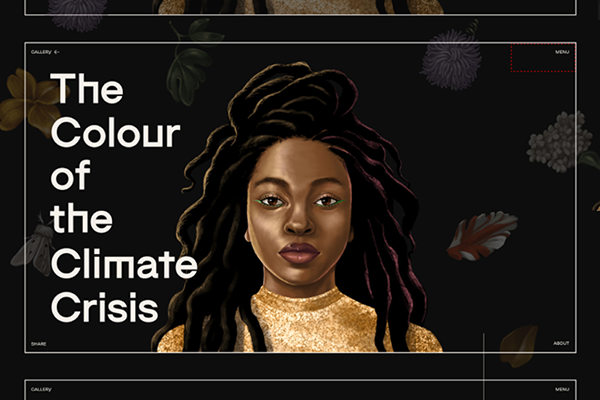
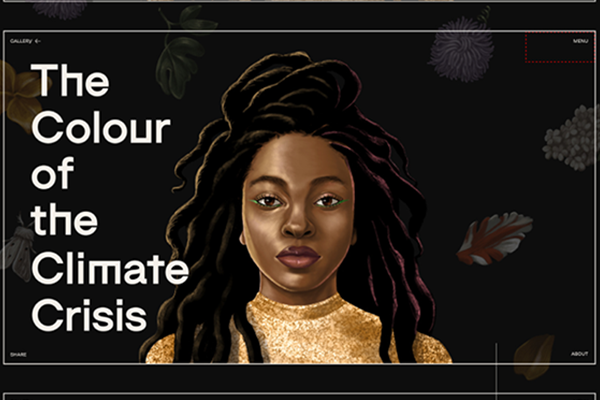
add hivstory

diff --git a/work-hivstory.html b/work-hivstory.html
@@ -80,11 +80,11 @@
                </div>
             </div>
          </div>
-         <div id="checkpoint" class="cover-photo cotcc">
+         <div id="checkpoint" class="cover-photo hivstory">
             <div class="segment type light">
                <dl class="reset credits">
-                  <dt>Artwork</dt>
-                  <dd>—</dd>
+                  <dt>Photo</dt>
+                  <dd>Barbara Hathaway &amp; daughter Denise</dd>
                </dl>
             </div>
          </div>
@@ -93,43 +93,32 @@
                <div class="segment type">
                   <dl itemscope itemprop="Person" itemtype="http://schema.org/Person" class="reset credits">
                      <dt>With</dt>
-                     <dd itemprop="name">Caitlin Brady (Strategy)</dd>
-                     <dd itemprop="name">Maciek Baron (Developer)</dd>
+                     <dd itemprop="name">James (Project Manager)</dd>
+                     <!-- <dd itemprop="name">(Developer)</dd> -->
                   </dl>
                   <dl class="reset credits">
                      <dt>Role</dt>
-                     <dd><abbr title="User Experience">UX</abbr>+<abbr title="User Interface">UI</abbr></dd>
-                     <dd>Front-End</dd>
+                     <dd>Exhibition Design</dd>
+                     <!-- <dd>Front-End</dd> -->
                   </dl>
                   <dl class="reset credits">
                      <dt>Stack</dt>
                      <dd>Figma</dd>
                      <dd>Adobe© Illustrator</dd>
-                     <dd>Adobe© InDesign</dd>
-                     <dd>Adobe© Photoshop</dd>
+                     <!-- <dd>Adobe© InDesign</dd> -->
+                     <!-- <dd>Adobe© Photoshop</dd> -->
                   </dl>
                </div>
             </aside>
          </div>
          <main role="main">
-            <h2>An exhibition by Black artists &plus; artists of colour exploring the relationship between racial justice and climate justice</h2>
+            <h2>This first-of-its-kind project is a three-year, UK-wide outreach programme that will raise awareness and understanding of the history of HIV and AIDS.</h2>
 
-<!-- 
-            <div class="segment surface">
-               <figure><img src="img/projects/gatc/intro.jpg" class="max"></figure>
-            </div>
- -->
+            <p>Our work is wholly diverse, reflecting the experiences of men, women, trans, gay and straight, of all races, UK born and migrant. The stories of those involved are already in danger of being forgotten, yet the pandemic was the most significant event in modern day LGBTQ+ life and continues to affect this community, and wider society today. It changed the way that people were cared for and died, and much is owed to the activists from that time for saving so many more lives.  Put simply, the AIDS pandemic probably advanced gay rights more than anything else in history, and many of the freedoms the LGBTQ+ community enjoy today are due in great part to the changes that the AIDS pandemic ignited. It has also left a legacy of ground-breaking care methods enjoyed by the whole of society. We have filmed and transcribed 120 in-depth, broadcast quality interviews, to create the largest filmed archive of HIV related experiences in the UK. That amounts to over 200 hours of first-person testimony of the age, and we plan to collect many more stories from people affected by the pandemic over time. By achieving all this we continue to advance our social history. While one of our aims is to create a feature film and other productions from the interviews, we also want to preserve them in their entirety for future generations. That’s why we have teamed up with The London Archives, the largest County office in the UK, to preserve the materials in perpetuity. The first 100 film interviews from the collection are now available for researchers, historians and the public. They are subtitled, transcribed and fully searchable across the collection, representing a massive resource that will be available for the next 1000 years. The work of the NHST charts not only a key and tragic part of LGBTQ+ history, but of our society’s shared history through activism and the many acts of compassion and love.</p>
 
-            <p><a class="inline" href="https://dothegreenthing.com/">Do The Green Thing</a>&mdash; a charity focussed on environmental justice&mdash; approached us to create an online exhibition featuring work from Black and minority-ethnic artists exploring the relationship between racial justice and climate justice</p>
 
-            <p>The Colour of the Climate Crisis is a digital and physical exhibition by Black artists and artists of colour exploring the relationship between racial justice and climate justice. This story overviews both exhibitions.</p>
-
-            <p>The physical exhibitions took place in Glasgow during COP26 in October 2021. The digital exhibition with all the artworks and artist statements lives on at The Colour of the Climate Crisis site. Art helps us interpret the world and understand its truths.
-            </p>
+            <p>Based on the interviews that have been undertaken by The National HIV Story Trust, we are sharing incredible real stories of love, life and loss – tales full of both the terrible times, and times of hope. Each person’s story is of course unique to them, but as you will see their experiences often intersect.</p>
             
-            <p>The Colour of the Climate Crisis grapples with a fundamental truth: that we are facing a crisis of climate and nature, and that the people most affected, most at risk and least responsible for it are people of colour. We know that racialised and minoritised communities are already on the frontlines of climate change. Their experiences, ideas and leadership must be central to the global response to it.</p>
-
-            <p>As world leaders meet at COP26 to discuss the climate crisis, this exhibition offers them an opportunity: to be quiet, and listen. To be humble, and learn. To be brave, and commit to meaningful action. This is an opportunity for us all to acknowledge the truth that racial injustice is climate injustice, and to begin to change it.</p>
 
             <div class="segment blueprint pad">
                <figure>
@@ -151,8 +140,7 @@
             <h2 class="align-c">The climate crisis is racist <br/>because it exists in a system that is racist<br/>&mdash; Minnie Rahman</h2>
 
 
-            <p>I adapted the illustrations and minimal brand direction supplied into an interactive experience. An exhibition by Black artists and artists of colour exploring the relationship between racial justice and climate justice. We delivered the digital version of the exhibition, working with the team at Do The Green Thing.</p>
-            
+
 
 
             <div class="segment surface align-c">
@@ -200,9 +188,6 @@
             </div>
 
 
-            <!-- <h3>Outcomes</h3> -->
-            
-
             <div class="segment type">
                <ol class="ref">
                   <li>"You've translated what was in our heads so beautifully."&mdash;Do The Green Thing"</li>
@@ -215,19 +200,6 @@
 
 
          </main>
-
-
-
-<!--          <div class="band ref">
-            <div class="segment type">
-               <ol class="ref">
-                  <li><a href="https://www.itsnicethat.com/features/do-the-green-thing-the-colour-of-the-climate-crisis-exhibition-051121" class="inline">Artists respond to the relationship between racial injustice &plus; the climate crisis</a> (It's Nice That)</li>
-                  <li><a href="https://www.pentagram.com/news/pecha-kucha-austin-35" class="inline">‘The Colour of the Climate Crisis’ Exhibition</a> (Pentagram)</li>
-               </ol>
-            </div>
-         </div>
- -->
-
 
       </article>
 

diff --git a/css/v8.css b/css/v8.css
@@ -5935,6 +5935,44 @@ body.index header h1 {
 
 
 
+/* hivstory */
+.cover-photo.hivstory {
+	background: url("../img/cover/hivstory/1800.jpg") 50% 50% repeat-x rgba(0, 0, 0, 0.05)
+}
+@media (max-width: 1600px) {
+	.cover-photo.hivstory {
+		background: url("../img/cover/hivstory/1600.jpg") 50% 50% repeat-x rgba(0, 0, 0, 0.05)
+	}
+}
+@media (max-width: 1400px) {
+	.cover-photo.hivstory {
+		background: url("../img/cover/hivstory/1400.jpg") 50% 50% repeat-x rgba(0, 0, 0, 0.05)
+	}
+}
+@media (max-width: 1200px) {
+	.cover-photo.hivstory {
+		background: url("../img/cover/hivstory/1200.jpg") 50% 50% repeat-x rgba(0, 0, 0, 0.05)
+	}
+}
+@media (max-width: 1000px) {
+	.cover-photo.hivstory {
+		background: url("../img/cover/hivstory/1000.jpg") 50% 50% repeat-x rgba(0, 0, 0, 0.05)
+	}
+}
+@media (max-width: 800px) {
+	.cover-photo.hivstory {
+		background: url("../img/cover/hivstory/800.jpg") 50% 50% repeat-x rgba(0, 0, 0, 0.05)
+	}
+}
+@media (max-width: 600px) {
+	.cover-photo.hivstory {
+		background: url("../img/cover/hivstory/600.jpg") 12% 50% repeat-x rgba(0, 0, 0, 0.05)
+	}
+}
+
+
+
+
 /* overrrides */
 
 #top nav .flex li.unit:nth-child(1){

diff --git a/c-cards.html b/c-cards.html
@@ -1,25 +1,7 @@
 <!DOCTYPE html>
 <html lang="en" class="no-js">
   <head>
-    <!--
-    
-    Made by Chris Droom, 2016/7
-    github.com/droom/mayday/
-    
-    — Transport New (Heavy) by K-Type
-    — Transport New (Medium) by K-Type
-    MyFonts Webfont Build ID 3345287
-    2017-02-15T08:32:50-0500
-    
-    K-Type's redrawing of the UK Transport font
-    originally designed for British road signs by 
-    Jock Kinneir and Margaret Calvert, and first 
-    published on the Preston bypass in 1958.
-    
-    This site has a Konami code feature 🎮
-    
-    
-    -->
+
     <link rel="stylesheet" type="text/css" media="all" href="https://fonts.googleapis.com/css?family=Roboto+Mono:400,700">
     <link rel="stylesheet" type="text/css" media="all" href="css/v8.css">
     <link rel="stylesheet" type="text/css" media="print" href="css/v8-print.css">
